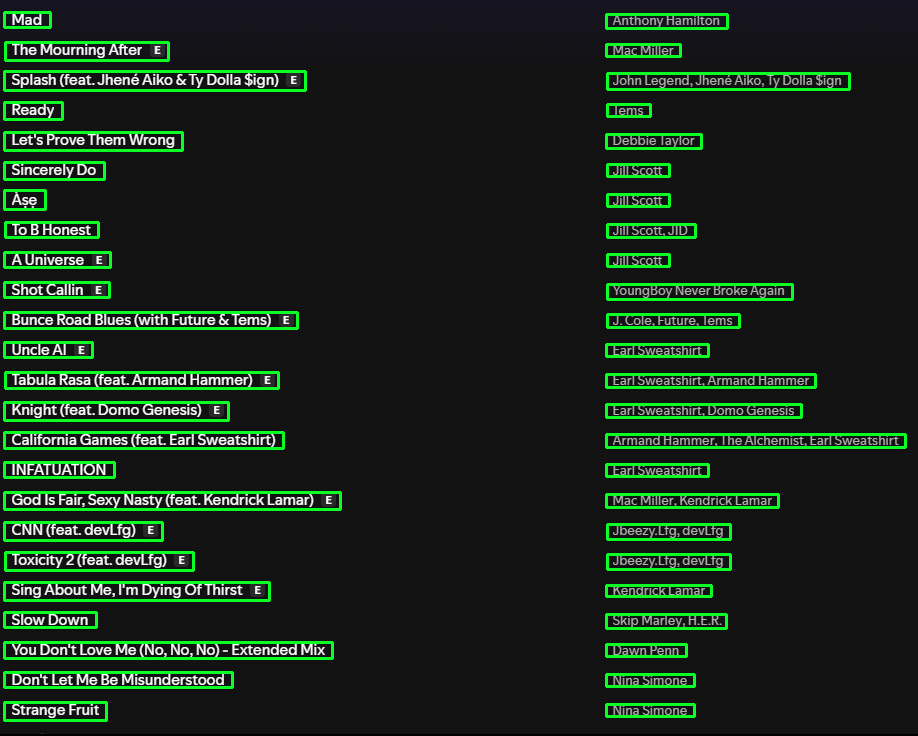
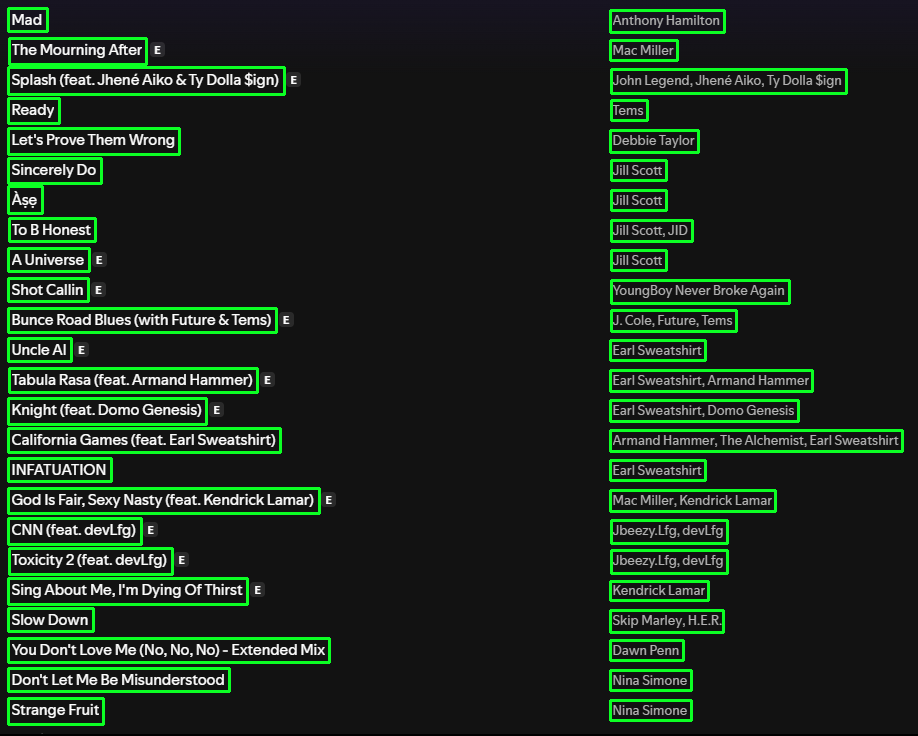
implemented screenshot feature and an autoscroll feature that loops while the bottom links are not shown

Changed region(s): [[0.0, 0.0, 0.366, 1.0], [0.6405, 0.0, 1.0, 1.0]]

diff --git a/autoScreenshot.py b/autoScreenshot.py
@@ -1,39 +1,41 @@
-import datetime as dt
 import os
-import sys
-import threading
 import time
+
+from PIL import Image, ImageGrab
+from selenium import webdriver
+from selenium.webdriver.chrome.service import Service
+from selenium.webdriver.common.action_chains import ActionChains
+from selenium.webdriver.common.by import By
+from selenium.webdriver.common.keys import Keys
+from webdriver_manager.chrome import ChromeDriverManager
 
 os.makedirs("temp", exist_ok=True)
 
-from selenium import webdriver
-from selenium.common.exceptions import SessionNotCreatedException
-from selenium.webdriver import ActionChains
-from selenium.webdriver.chrome.service import Service
-from selenium.webdriver.common.actions.wheel_input import ScrollOrigin
-from selenium.webdriver.common.alert import Alert
-from selenium.webdriver.common.by import By
-from selenium.webdriver.common.keys import Keys
-from selenium.webdriver.support import expected_conditions as EC
-from selenium.webdriver.support.ui import Select
-from selenium.webdriver.support.ui import WebDriverWait as wait
- 
 
-"""def autoScroll(webDrvr, scrollAmnt):
-    
-    ActionChains(webDrvr)\
-        .scroll_by_amount(0, scrollAmnt)\
-        .perform()
-        
-    time.sleep(10)    
-    
+def open_web():
+    service = Service(ChromeDriverManager().install())
+    driver = webdriver.Chrome(service=service)
+    driver.get("https://www.bing.com/search?q=you")
+    body = driver.find_element(By.TAG_NAME, "body")
+
+    return body
 
 
+def autoScroll(webDriver):
 
-service = Service(executable_path="chromedriver.exe")
-driver = webdriver.Chrome(service=service)
+    body = open_web()
+    is_end_visible = body.find_element(By.CSS_SELECTOR, "bottom-links").is_displayed()
 
-driver.get("https://Bing.com/search?q=you")
+    while not is_end_visible:
+        webDriver.implicitly_wait(5)
+        screenshot()
+        body.send_keys(Keys.PAGE_DOWN)
+        is_end_visible = body.find_element(
+            By.CSS_SELECTOR, "bottom-links"
+        ).is_displayed()
+    time.sleep(10)
 
-autoScroll(driver, 500)
-"""
+
+def screenshot():
+    im = ImageGrab.grab(bbox=(147, 245, 1068, 970))
+    im.show()

diff --git a/imgReader.py b/imgReader.py
@@ -1,17 +1,16 @@
-import pyautogui
-import easyocr
-import numpy as np
-from PIL import Image
-import pandas as pd
-
 import cv2
+import easyocr
+import pandas as pd
 from cv2.typing import MatLike
 
 replacements = {
     "_": " ",
     ";": ",",
     ":": ",",
+    "  ": " ",
+    ",": "",
 }
+
 
 def process_img(img: MatLike):
 
@@ -29,14 +28,13 @@ def process_img(img: MatLike):
     thresh = cv2.threshold(blur, 0, 255, cv2.THRESH_OTSU)[1]
     cv2.imwrite("temp/index_thresh.png", thresh)
 
-    kernal = cv2.getStructuringElement(cv2.MORPH_RECT, (15, 3))
+    kernal = cv2.getStructuringElement(cv2.MORPH_RECT, (8, 11))
     dialate = cv2.dilate(thresh, kernal, iterations=1)
     cv2.imwrite("temp/index_dilate.png", dialate)
 
     cnts = cv2.findContours(dialate, cv2.RETR_EXTERNAL, cv2.CHAIN_APPROX_SIMPLE)
     cnts = cnts[0] if len(cnts) == 2 else cnts[1]
 
-    
     boxes = []
     for c in cnts:
         x, y, w, h = cv2.boundingRect(c)
@@ -53,17 +51,17 @@ def process_img(img: MatLike):
         cell_crops.append(crop)
 
     cv2.imwrite("temp/index_bbox.png", img)
-   
+
     return cell_crops
 
 
-def img_reader(cell_crops:list[MatLike]):
+def img_reader(cell_crops: list[MatLike]):
     reader = easyocr.Reader(["en"], gpu=False)
-    
+
     all_text = []
     for cropped_img in cell_crops:
-        results = reader.readtext(cropped_img, mag_ratio=3, detail=0)
-        all_text.append(" ".join(results))
+        results = reader.readtext(cropped_img, mag_ratio=3, detail=0, paragraph=True)
+        all_text.append(" ".join(results))  # type: ignore
 
     rows = []
     for i in range(0, len(all_text), 2):

diff --git a/main.py b/main.py
@@ -5,13 +5,17 @@ import pandas as pd  # noqa: F401
 import pyautogui  # noqa: F401
 from PIL import Image  # noqa: F401
 
+import autoScreenshot as AS
 import imgReader as IR
 
 
 def main():
+    """
     img = cv2.imread("temp/TestImg.png")
-    results = IR.process_img(img)
+    results = IR.process_img(img)  # type: ignore
     print(IR.img_reader(results))
+    """
+    AS.screenshot()
 
 
 if __name__ == "__main__":

diff --git a/tempCodeRunnerFile.py b/tempCodeRunnerFile.py
@@ -1,18 +1,1 @@
-import cv2
-import easyocr  # noqa: F401
-import numpy as np  # noqa: F401
-import pandas as pd  # noqa: F401
-import pyautogui  # noqa: F401
-from PIL import Image  # noqa: F401
-
-import imgReader as IR
-
-
-def main():
-    img = cv2.imread("temp/TestImg.png")
-    results = IR.process_img(img)
-    print(IR.img_reader(results))
-
-
-if __name__ == "__main__":
-    main()
+easyocr
